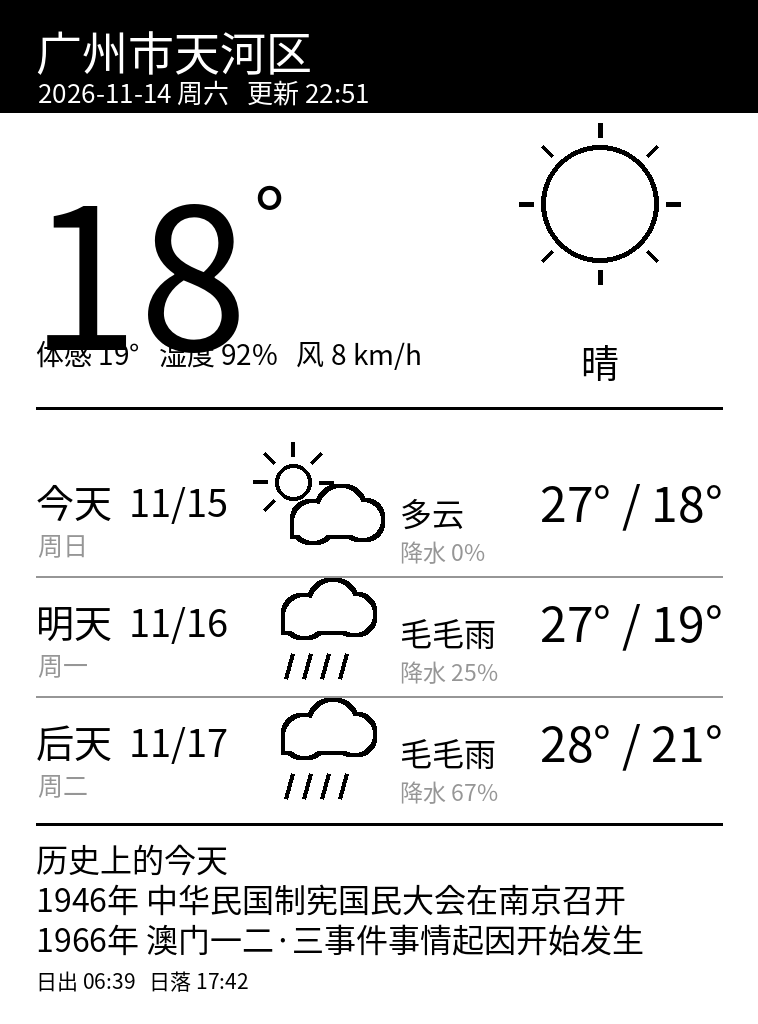
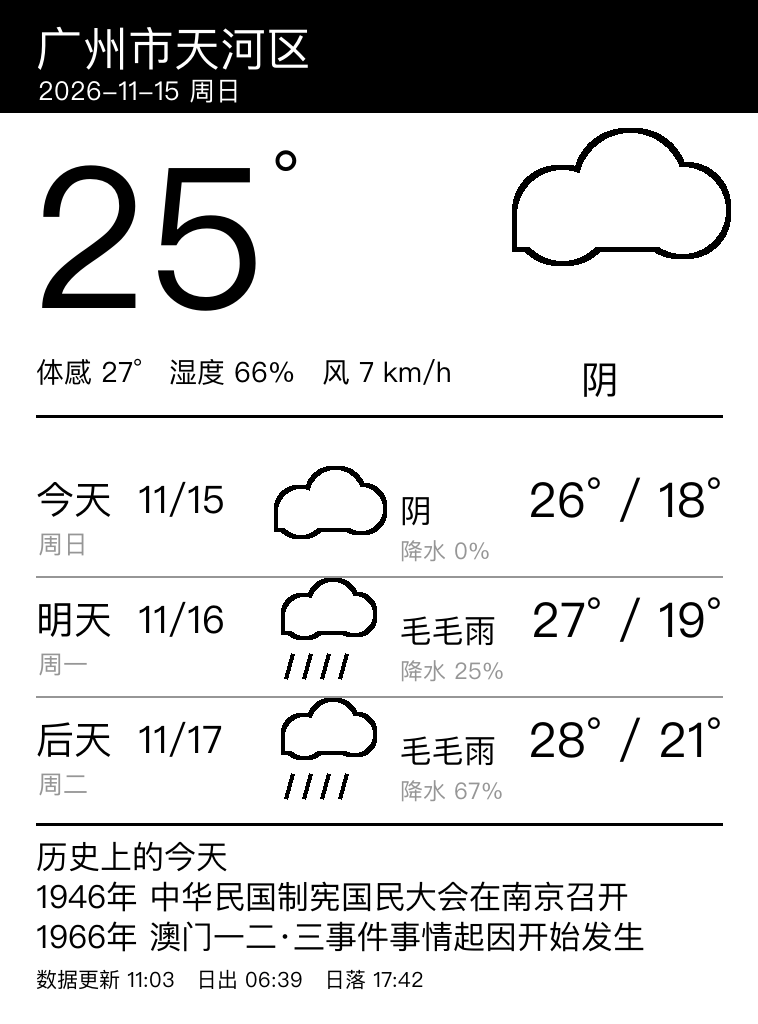
feat(weather): 大字温度上移防与体感行重叠；顶部仅显示拉取日期；底行增加数据更新时间

diff --git a/gen_weather.py b/gen_weather.py
@@ -323,21 +323,21 @@ def render(data, w, h, live):
     except Exception:
         wd = ""
     upd = fetched[-5:] if len(fetched) >= 5 else fetched
-    d.text((S(38), T(72)), "%s %s   更新 %s%s" % (stamp, wd, upd, "" if live else " (缓存)"),
+    d.text((S(38), T(72)), "%s %s" % (stamp, wd),
            font=font(T(26)), fill=WHITE)
 
     # ===== 当前实况 =====
     temp = round(c["temperature_2m"])
-    d.text((S(30), T(122)), str(temp), font=font(T(196)), fill=BLACK)
+    d.text((S(30), T(100)), str(temp), font=font(T(196)), fill=BLACK)
     tb = d.textbbox((0, 0), str(temp), font=font(T(196)))
-    d.text((S(36) + (tb[2] - tb[0]), T(152)), "°", font=font(T(84)), fill=BLACK)
+    d.text((S(36) + (tb[2] - tb[0]), T(130)), "°", font=font(T(84)), fill=BLACK)
     cur_wx = WMO.get(c["weather_code"], "—")
     draw_icon(img, icon_kind(c["weather_code"]), S(600), T(204), S(140), lw=max(4, S(5)))
-    text_c(d, S(600), T(332), cur_wx, font(T(38)))
+    text_c(d, S(600), T(352), cur_wx, font(T(38)))
     detail = "体感 %s°   湿度 %s%%   风 %s km/h" % (
         round(c["apparent_temperature"]), c["relative_humidity_2m"], round(c["wind_speed_10m"]))
-    d.text((S(36), T(332)), detail, font=font(T(28)), fill=BLACK)
-    d.line([(S(36), T(408)), (w - S(36), T(408))], fill=BLACK, width=max(2, S(3)))
+    d.text((S(36), T(352)), detail, font=font(T(28)), fill=BLACK)
+    d.line([(S(36), T(416)), (w - S(36), T(416))], fill=BLACK, width=max(2, S(3)))
 
     # ===== 三天预报（今天/明天/后天 自带标签，无需标题） =====
     names = ["今天", "明天", "后天"]
@@ -390,10 +390,10 @@ def render(data, w, h, live):
         y += T(10)
     else:
         y += T(10)
-    y = min(y, T(1000))   # 更新时间行保险上限，防止贴到 1024 底边被裁
+    y = min(y, T(1000))   # 底部信息行保险上限，防止贴到 1024 底边被裁
     sr = dl["sunrise"][0][-5:]
     ss = dl["sunset"][0][-5:]
-    d.text((S(36), y), "日出 %s   日落 %s" % (sr, ss),
+    d.text((S(36), y), "数据更新 %s%s   日出 %s   日落 %s" % (upd, "" if live else " (缓存)", sr, ss),
            font=font(T(21)), fill=BLACK)
     return img
 
